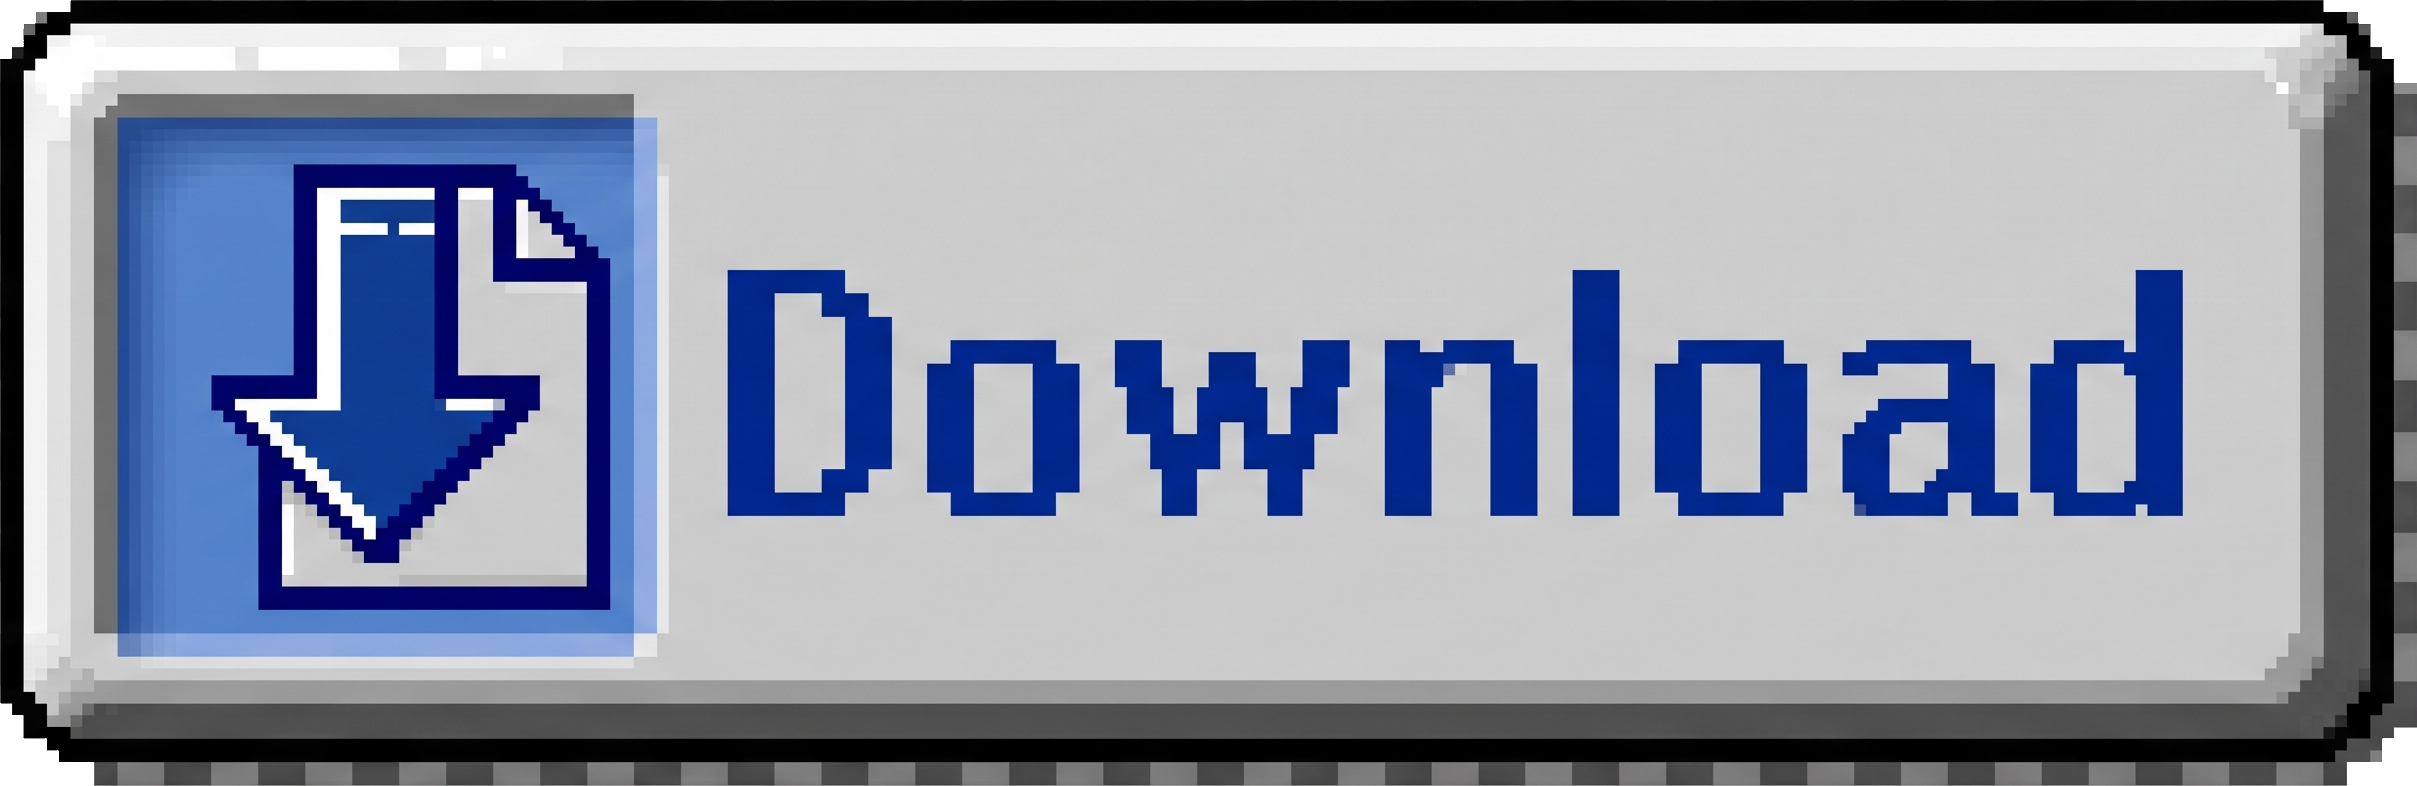
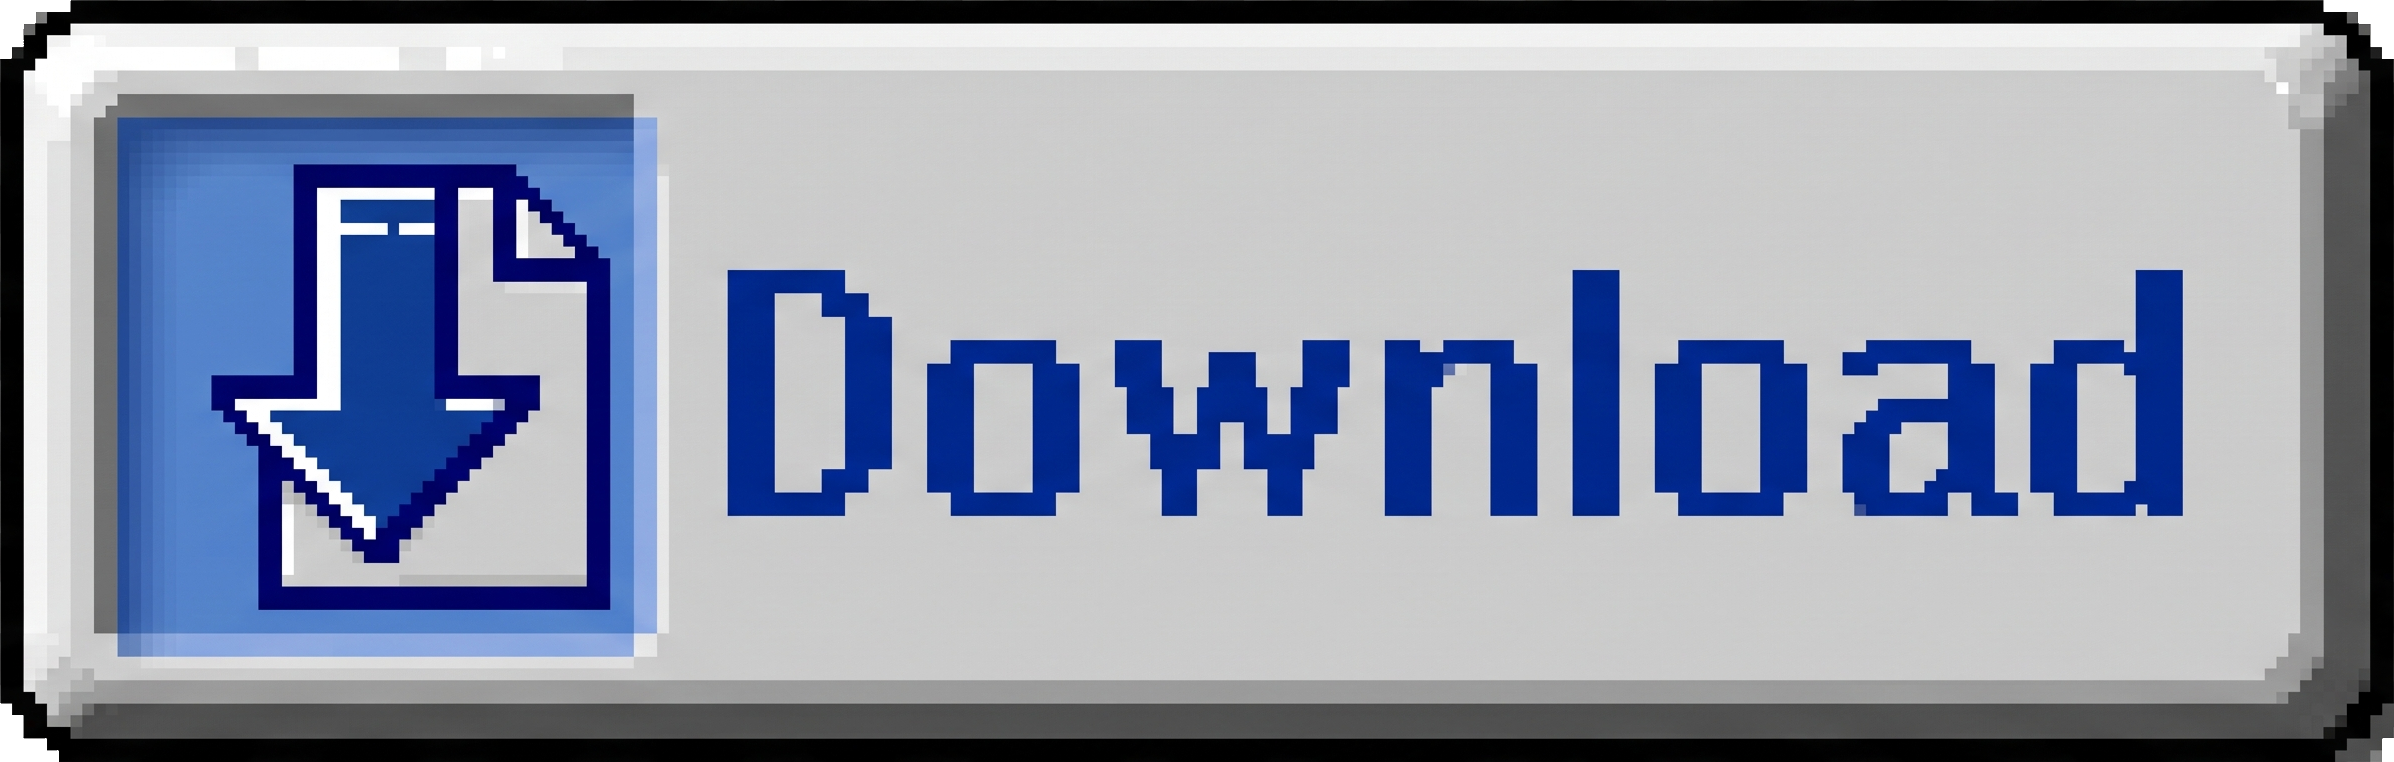
Clean download-btn.png edges and restyle resume window
- Crop outer right shadow strip (had medium-gray artifact at rows 82–93)
- Crop bottom shadow strip (had interleaved white checkerboard remnants)
- Add CSS drop-shadow filter to replace removed shadow
- ExpCard: metallic raised style — black border, gray gradient body, inset bevel
- Project label: blue accent badge (matches button icon area)
- Period label: dark metallic pill badge
- Resume content area: dark gray gradient background, embossed EXPERIENCE header

Changed region(s): [[0.0, 0.0, 1.0, 1.0]]

diff --git a/app/page.tsx b/app/page.tsx
@@ -400,21 +400,43 @@ function ExpCard({ org, role, period, project, bullets }: {
 }) {
   return (
     <div style={{
-      border: "1px solid #bbb",
-      borderRadius: 4,
-      padding: "10px 12px",
-      background: "#fafafa",
-      marginBottom: 8,
+      border: "2px solid #111",
+      borderRadius: 3,
+      padding: "9px 12px 10px",
+      background: "linear-gradient(150deg, #e8e8e8 0%, #d0d0d0 100%)",
+      boxShadow: "inset 2px 2px 0 #ffffff, inset -2px -2px 0 #888888",
+      marginBottom: 10,
     }}>
       <div style={{ display: "flex", justifyContent: "space-between", alignItems: "baseline", marginBottom: 2 }}>
-        <span style={{ fontWeight: "bold", fontSize: 13 }}>{org}</span>
-        <span style={{ fontSize: 11, color: "#666" }}>{period}</span>
+        <span style={{ fontWeight: "bold", fontSize: 13, color: "#111" }}>{org}</span>
+        <span style={{
+          fontSize: 10,
+          color: "#fff",
+          background: "#555",
+          border: "1px solid #222",
+          boxShadow: "inset 1px 1px 0 #999, inset -1px -1px 0 #333",
+          padding: "1px 6px",
+          borderRadius: 2,
+          fontFamily: "var(--font-body-mono)",
+        }}>{period}</span>
       </div>
-      <div style={{ fontSize: 12, color: "#555", marginBottom: project ? 2 : 6 }}>{role}</div>
-      {project && <div style={{ fontSize: 11, fontStyle: "italic", color: "#444", marginBottom: 5 }}>{project}</div>}
+      <div style={{ fontSize: 12, color: "#333", fontStyle: "italic", marginBottom: project ? 2 : 5 }}>{role}</div>
+      {project && (
+        <div style={{
+          fontSize: 11,
+          color: "#1a3a6e",
+          background: "linear-gradient(90deg, #b8c8e8 0%, #a8b8d8 100%)",
+          border: "1px solid #4466aa",
+          boxShadow: "inset 1px 1px 0 #d8e4f8, inset -1px -1px 0 #6688cc",
+          padding: "1px 6px",
+          borderRadius: 2,
+          marginBottom: 5,
+          fontFamily: "var(--font-body-mono)",
+        }}>{project}</div>
+      )}
       <ul style={{ margin: 0, paddingLeft: 16 }}>
         {bullets.map((b, i) => (
-          <li key={i} style={{ fontSize: 12, lineHeight: 1.6, color: "#222", marginBottom: 2 }}>{b}</li>
+          <li key={i} style={{ fontSize: 12, lineHeight: 1.5, color: "#222", marginBottom: 2 }}>{b}</li>
         ))}
       </ul>
     </div>
@@ -1143,8 +1165,8 @@ export default function Home() {
                     />
                   }
                 >
-                  <div style={{ height: "100%", overflowY: "auto", padding: "14px 18px", fontFamily: "var(--font-body-mono)", fontSize: 13, color: "#111", letterSpacing: "-0.03em" }}>
-                    <div style={{ fontSize: 11, fontWeight: "bold", letterSpacing: "0.06em", color: "#888", marginBottom: 10 }}>EXPERIENCE</div>
+                  <div style={{ height: "100%", overflowY: "auto", padding: "12px 14px", fontFamily: "var(--font-body-mono)", fontSize: 13, color: "#111", letterSpacing: "-0.03em", background: "linear-gradient(180deg, #d4d4d4 0%, #c8c8c8 100%)" }}>
+                    <div style={{ fontSize: 10, fontWeight: "bold", letterSpacing: "0.1em", color: "#fff", background: "#444", border: "2px solid #111", boxShadow: "inset 1px 1px 0 #888, inset -1px -1px 0 #222", padding: "2px 8px", marginBottom: 10, display: "inline-block" }}>EXPERIENCE</div>
                     <ExpCard
                       org="Columbia University"
                       role="Research Assistant"
@@ -1188,7 +1210,7 @@ export default function Home() {
                       ]}
                     />
                     {/* Download button — at end of scrollable content */}
-                    <div style={{ display: "flex", justifyContent: "center", padding: "18px 0 6px" }}>
+                    <div style={{ display: "flex", justifyContent: "center", padding: "18px 0 8px" }}>
                       <a
                         href="/Erica (Kela) Liu Resume.pdf"
                         download="Erica (Kela) Liu Resume.pdf"
@@ -1198,7 +1220,7 @@ export default function Home() {
                           src="/download-btn.png"
                           alt="Download PDF"
                           draggable={false}
-                          style={{ width: 168, height: "auto", imageRendering: "pixelated", display: "block" }}
+                          style={{ width: 168, height: "auto", imageRendering: "pixelated", display: "block", filter: "drop-shadow(2px 3px 0px rgba(0,0,0,0.55))" }}
                         />
                       </a>
                     </div>
